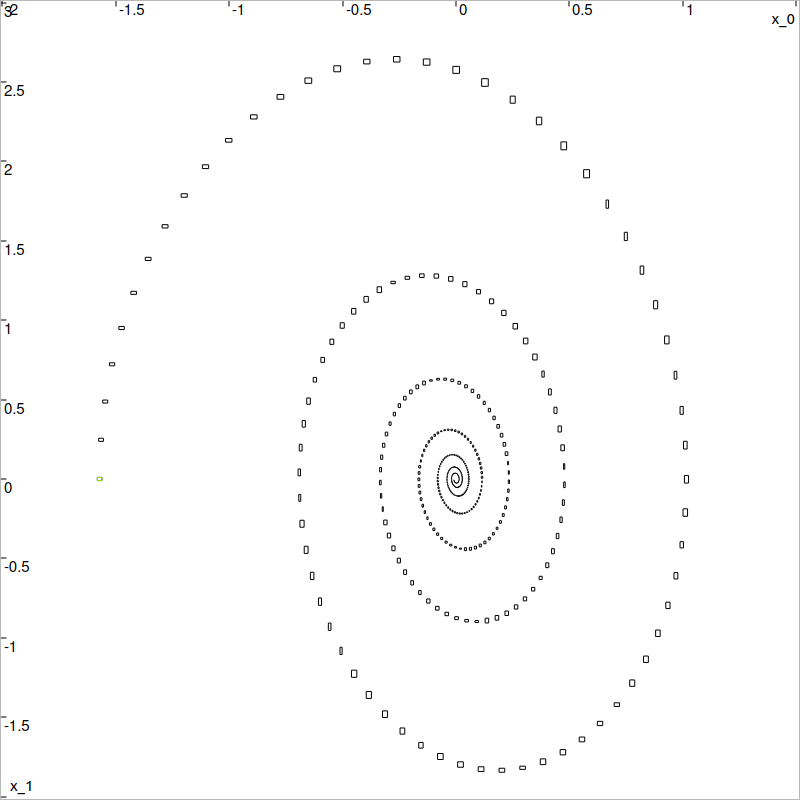
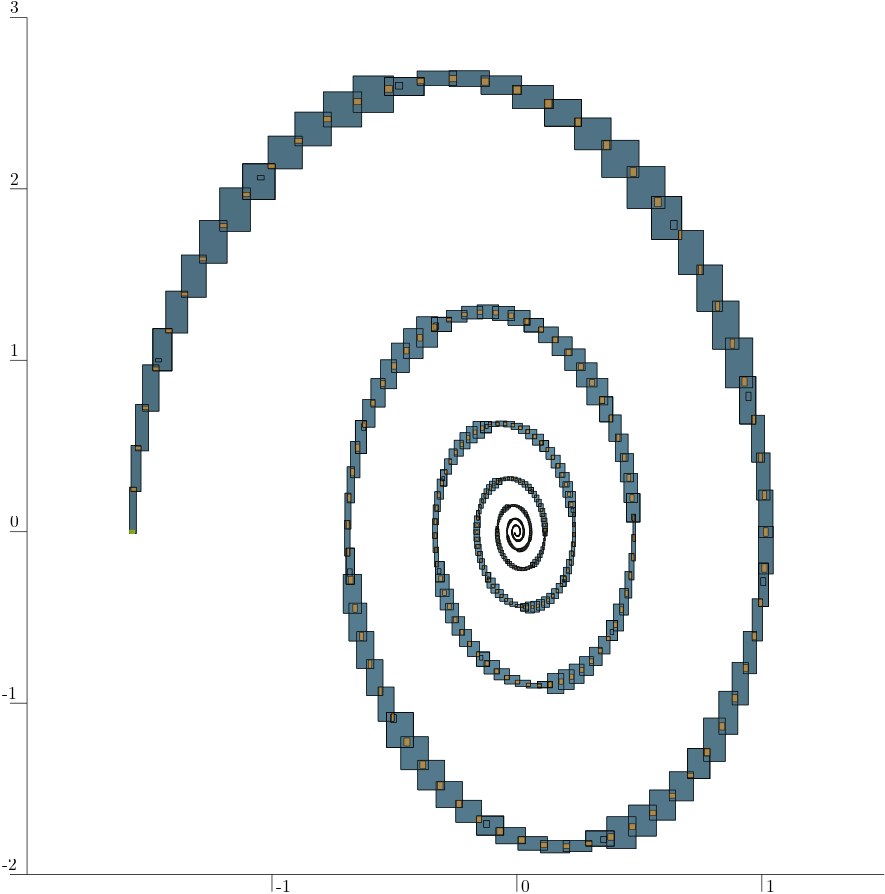
[capd] Conversion between capd SolutionCurve and Codac SlicedTube

diff --git a/src/extensions/capd/codac2_SolutionCurveWrapper.cpp b/src/extensions/capd/codac2_SolutionCurveWrapper.cpp
@@ -1,0 +1,46 @@
+/**
+ *  codac2_SolutionCurveWrapper.cpp
+ * ----------------------------------------------------------------------------
+ *  \date       2025
+ *  \author     Maël Godard
+ *  \copyright  Copyright 2024 Codac Team
+ *  \license    GNU Lesser General Public License (LGPL)
+ */
+
+#include "codac2_SolutionCurveWrapper.h"
+
+using namespace std;
+
+using namespace std;
+using namespace codac2;
+
+namespace codac2
+{
+
+  SolutionCurveWrapper::SolutionCurveWrapper(const capd::ITimeMap::SolutionCurve& base) : capd::ITimeMap::SolutionCurve(base)
+  {}
+
+  std::vector<capd::Interval> SolutionCurveWrapper::get_domain() const
+  {
+    return this->domain;
+  }
+
+  double SolutionCurveWrapper::t0() const
+  {
+    assert_release(this->domain.size() > 0 && "SolutionCurveWrapper::t0() - no pieces in the curve.");
+    return this->domain.front().rightBound();
+  }
+
+  double SolutionCurveWrapper::tf() const
+  {
+    assert_release(this->domain.size() > 0 && "SolutionCurveWrapper::tf() - no pieces in the curve.");
+    return this->domain.back().leftBound();
+  }
+
+  int SolutionCurveWrapper::dimension() const
+  {
+    assert_release(this->pieces.size() > 0 && "SolutionCurveWrapper::dimension() - no pieces in the curve.");
+    return this->pieces[0]->dimension();
+  }
+
+}

diff --git a/doc/manual/manual/extensions/capd/src.cpp b/doc/manual/manual/extensions/capd/src.cpp
@@ -56,9 +56,16 @@ int main()
   capd::IVector result = timeMap(T,s);
   // [codac-capd-6-end]
 
+  // [codac-capd-8-beg]
+
+  auto tdomain = create_tdomain(codac2::Interval(0,20),0.05, true); // true to have gates
+  auto codac_tube = to_codac(solution, tdomain);
+
+  // [codac-capd-8-end]
+
   if (false)
   {
-    // [codac-capd-8-beg]
+    // [codac-capd-9-beg]
     std::cout << "\ninitial set: " << c;
     std::cout << "\ndiam(initial set): " << diam(c) << std::endl;
 
@@ -67,12 +74,15 @@ int main()
 
     codac2::DefaultFigure::set_axes(codac2::axis(0,{-2,1.5}),codac2::axis(1,{-2,3}));
 
+    codac2::DefaultFigure::draw_tube(codac_tube, codac2::ColorMap::blue_tube());
+    codac2::DefaultFigure::draw_tube(codac_tube, codac2::Color::black());
+
     for (float t=0.;t<20.;t+=0.05)
-      codac2::DefaultFigure::draw_box(codac2::to_codac(solution(t)));
+      codac2::DefaultFigure::draw_box(codac2::to_codac(solution(t)), {codac2::Color::none(), codac2::Color::orange(0.5)});
 
     codac2::DefaultFigure::draw_box(codac2::to_codac(c),codac2::Color::green());
     codac2::DefaultFigure::draw_box(codac2::to_codac(result),codac2::Color::red());
-    // [codac-capd-8-end]
+    // [codac-capd-9-end]
   }
  
 }

diff --git a/examples/05_capd_solver/main.cpp b/examples/05_capd_solver/main.cpp
@@ -53,12 +53,24 @@ int main()
   cout << "\n\nafter time=" << T << " the image is: " << result;
   cout << "\ndiam(image): " << diam(result) << endl << endl;
 
-  DefaultFigure::set_axes(axis(0,{-2,1.5}),axis(1,{-2,3}));
+  // conversion of the CAPD solution curve into a Codac SlicedTube
+  
+  auto tdomain = create_tdomain(Interval(0,20),0.05, true);
+  auto codac_tube = to_codac(solution, tdomain);
+
+  Figure2D fig_2d("Pendulum with friction", GraphicOutput::VIBES | GraphicOutput::IPE);
+
+  // visualization with Codac
+
+  fig_2d.set_axes(axis(0,{-2,1.5}),axis(1,{-2,3}));
+
+  fig_2d.draw_tube(codac_tube, ColorMap::blue_tube());
+  fig_2d.draw_tube(codac_tube, Color::black());
 
   for (float t=0.;t<20.;t+=0.05)
-    DefaultFigure::draw_box(to_codac(solution(t)));
+    fig_2d.draw_box(to_codac(solution(t)), {Color::none(), Color::orange(0.5)});
 
-  DefaultFigure::draw_box(to_codac(c),Color::green());
-  DefaultFigure::draw_box(to_codac(result),Color::red());
+  fig_2d.draw_box(to_codac(c), Color::green());
+  fig_2d.draw_box(to_codac(result), Color::red());
   
 }

diff --git a/src/extensions/capd/codac2_capd.cpp b/src/extensions/capd/codac2_capd.cpp
@@ -62,5 +62,23 @@ namespace codac2
     return y;
   }
 
+  SlicedTube<IntervalVector> to_codac(const codac2::SolutionCurveWrapper& solution_curve, const std::shared_ptr<TDomain>& tdomain)
+  {
+    assert_release(solution_curve.get_domain().size() >= 2);
+
+    SlicedTube codac_tube(tdomain, IntervalVector(solution_curve.dimension()));
+
+    for (const auto& t_slice: *tdomain)
+      if (t_slice.lb() >= solution_curve.t0() && t_slice.ub() <= solution_curve.tf())
+        codac_tube.set(to_codac(solution_curve(to_capd((Interval)t_slice))), t_slice);
+
+    codac_tube.set(to_codac(solution_curve(solution_curve.t0())), solution_curve.t0());
+    codac_tube.set(to_codac(solution_curve(solution_curve.tf())), solution_curve.tf());
+
+    for (size_t i = 1; i < solution_curve.get_domain().size() - 1; ++i) 
+      codac_tube.set(to_codac(solution_curve(solution_curve.get_domain()[i].rightBound())), solution_curve.get_domain()[i].rightBound());
+
+    return codac_tube;
+  }
 
 }

diff --git a/src/extensions/capd/codac2_capd.h b/src/extensions/capd/codac2_capd.h
@@ -14,6 +14,9 @@
 #include "codac2_IntervalVector.h"
 #include "codac2_Matrix.h"
 #include "codac2_IntervalMatrix.h"
+#include "codac2_SlicedTube.h"
+#include "codac2_SolutionCurveWrapper.h"
+
 
 namespace codac2
 {
@@ -64,5 +67,14 @@ namespace codac2
    * \return the converted Codac IntervalMatrix
    */
   codac2::IntervalMatrix to_codac(const capd::IMatrix& x);
+
+  /**
+   * \brief Converts a CAPD SolutionCurve into a Codac SlicedTube
+   * 
+   * \param solution_curve the CAPD SolutionCurve to be converted
+   * \param tdomain the TDomain defining the time slices of the resulting SlicedTube
+   * \return the converted Codac SlicedTube with both the time slices (and eventually gates) of Codac and the gates from CAPD
+   */
+  codac2::SlicedTube<codac2::IntervalVector> to_codac(const codac2::SolutionCurveWrapper& solution_curve, const std::shared_ptr<TDomain>& tdomain);
 
 }

diff --git a/src/extensions/capd/codac2_SolutionCurveWrapper.h b/src/extensions/capd/codac2_SolutionCurveWrapper.h
@@ -1,0 +1,32 @@
+/** 
+ *  \file codac2_SolutionCurveWrapper.h
+ * ----------------------------------------------------------------------------
+ *  \date       2025
+ *  \author     Maël Godard
+ *  \copyright  Copyright 2024 Codac Team
+ *  \license    GNU Lesser General Public License (LGPL)
+ */
+
+#pragma once
+
+#include <capd/capdlib.h>
+#include "codac2_assert.h"
+
+namespace codac2
+{
+  class SolutionCurveWrapper : public capd::ITimeMap::SolutionCurve
+  {
+    public:
+
+      SolutionCurveWrapper(const capd::ITimeMap::SolutionCurve& base);
+
+      std::vector<capd::Interval> get_domain() const;
+
+      double t0() const;
+
+      double tf() const;
+
+      int dimension() const;
+
+  };
+}

diff --git a/doc/manual/manual/extensions/capd/index.rst b/doc/manual/manual/extensions/capd/index.rst
@@ -39,6 +39,7 @@ The functions are ``to_capd`` and ``to_codac``. They can be used to convert the 
 - ``capd::Interval`` <-> ``codac2::Interval``
 - ``capd::IVector`` <-> ``codac2::IntervalVector``
 - ``capd::IMatrix`` <-> ``codac2::IntervalMatrix``
+- ``capd::ITimeMap::SolutionCurve`` <-> ``codac2::SlicedTube``
 
 How to use
 ----------
@@ -164,9 +165,13 @@ If the desired result is the solution curve (or tube) of the ODE on the time dom
       :start-after: [codac-capd-7-beg]
       :end-before: [codac-capd-7-end]
 
-The variable ``solution`` is the desired solution curve (or tube). The operator ``solution(t)`` gives the solution at time :math:`t`.
+The variable ``solution`` is the desired solution curve (or tube). The operator ``solution(t)`` gives the solution at time :math:`t`. 
+It can be converted into a Codac ``SlicedTube`` with the function ``to_codac``. This functions takes two arguments:
 
-A full display can be done with the following code:
+- the ``SolutionCurve`` to convert.
+- a ``TDomain`` object defining the time domain of the tube.
+
+The resulting ``SlicedTube`` will have the same time domain as the one given in argument, completed with the CAPD gates. An example of conversion is : 
 
 .. tabs::
 
@@ -177,7 +182,19 @@ A full display can be done with the following code:
       :start-after: [codac-capd-8-beg]
       :end-before: [codac-capd-8-end]
 
+A full display can be done with the following code:
+
+.. tabs::
+
+  .. group-tab:: C++
+
+    .. literalinclude:: src.cpp
+      :language: c++
+      :start-after: [codac-capd-9-beg]
+      :end-before: [codac-capd-9-end]
+
 The result is the following figure, with in green the initial set (:math:`t=0s`) and in red the final set (:math:`t=20s`).
+The Tube is displayed in blue with a black edge for better visibility. The orange rectangles correspond to the Codac gates evaluations.
 
 .. image:: img/pendulum_result.png
    :alt: Integration of the pendulum
